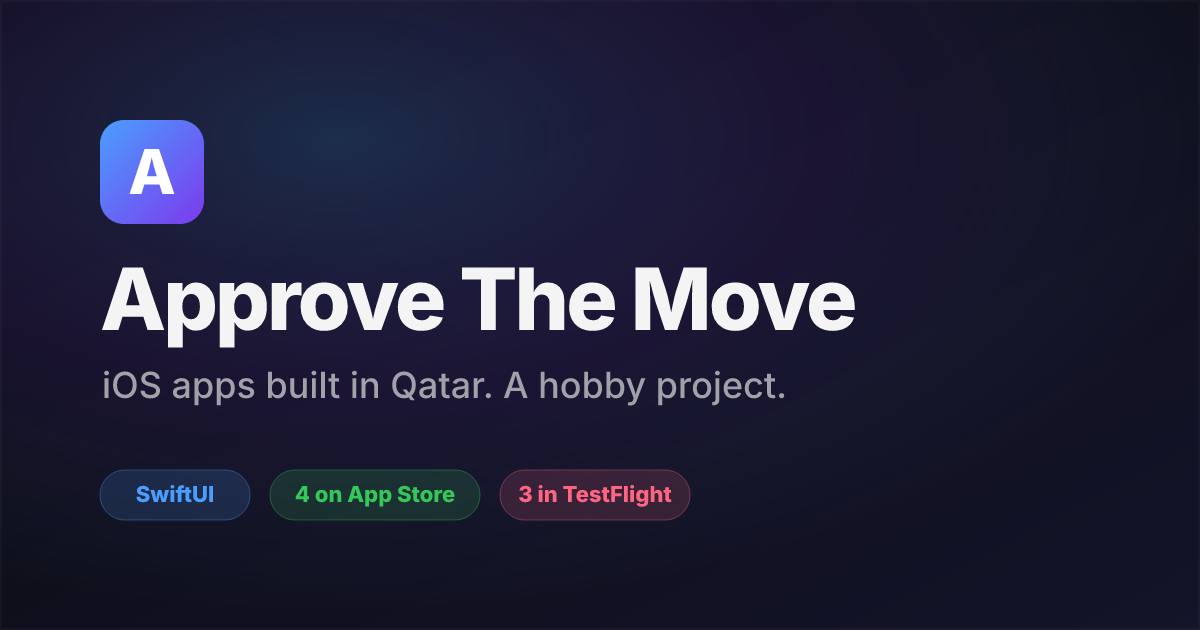
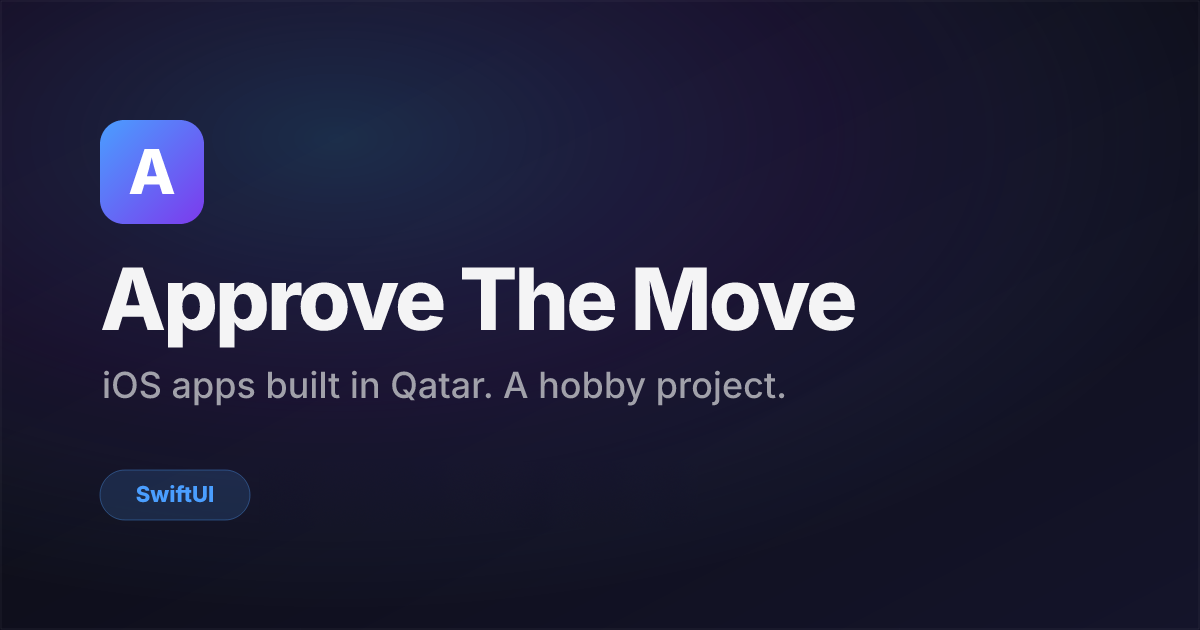
Site: remove app counts from the share image
The share card said "4 on App Store" and "3 in TestFlight" while the home
page says 6 and 1. Counts go stale at every release, so the card now
carries only the name, the tagline and the SwiftUI chip. The rest of the
image is unchanged, pixel for pixel.

Delete docs/og-image.svg: nothing references it, and it had drifted from
the PNG ("3 Live Apps", "1 in Beta").

Add ?v=20261031 to all 36 og:image and twitter:image tags across 18 pages
so link previews refetch the image.

Changed region(s): [[0.2158, 0.7238, 0.5858, 0.8444]]

diff --git a/docs/units/index.html b/docs/units/index.html
@@ -29,7 +29,7 @@
 <meta property="og:url" content="https://approvethemove.com/units/">
 <meta property="og:title" content="Unit Converter — 14+ Categories">
 <meta property="og:description" content="Convert length, weight, temperature, volume, speed, and 10+ more categories. Instant results. Free, no ads.">
-<meta property="og:image" content="https://approvethemove.com/og-image.png">
+<meta property="og:image" content="https://approvethemove.com/og-image.png?v=20261031">
 <meta property="og:image:type" content="image/png">
 <meta property="og:image:width" content="1200">
 <meta property="og:image:height" content="630">
@@ -37,7 +37,7 @@
 <meta name="twitter:card" content="summary_large_image">
 <meta name="twitter:title" content="Unit Converter — 14+ Categories">
 <meta name="twitter:description" content="Convert length, weight, temperature, volume, speed, and 10+ more categories. Instant results. Free, no ads.">
-<meta name="twitter:image" content="https://approvethemove.com/og-image.png">
+<meta name="twitter:image" content="https://approvethemove.com/og-image.png?v=20261031">
 <script type="application/ld+json">{"@context":"https://schema.org","@type":"SoftwareApplication","name":"Unit Converter","operatingSystem":"iOS","applicationCategory":"UtilitiesApplication","url":"https://approvethemove.com/units/","description":"Convert length, weight, temperature, volume, speed, and 10+ more categories. Instant results. Free, no ads.","author":{"@type":"Organization","name":"Approve The Move"},"offers":{"@type":"Offer","price":"0","priceCurrency":"USD"},"sameAs":"https://apps.apple.com/app/id6760981967","downloadUrl":"https://apps.apple.com/app/id6760981967"}</script>
 <script>(function(){try{var t=localStorage.getItem("atm-theme");if(t!=="dark"&&t!=="light"){t=window.matchMedia&&window.matchMedia("(prefers-color-scheme: light)").matches?"light":"dark";}document.documentElement.setAttribute("data-theme",t);}catch(e){}})();</script>
 </head>

diff --git a/docs/converter/index.html b/docs/converter/index.html
@@ -29,7 +29,7 @@
 <meta property="og:url" content="https://approvethemove.com/converter/">
 <meta property="og:title" content="Currency Converter — Live Exchange Rates">
 <meta property="og:description" content="Convert between 60 world currencies with live exchange rates. Works offline. Free, no ads.">
-<meta property="og:image" content="https://approvethemove.com/og-image.png">
+<meta property="og:image" content="https://approvethemove.com/og-image.png?v=20261031">
 <meta property="og:image:type" content="image/png">
 <meta property="og:image:width" content="1200">
 <meta property="og:image:height" content="630">
@@ -37,7 +37,7 @@
 <meta name="twitter:card" content="summary_large_image">
 <meta name="twitter:title" content="Currency Converter — Live Exchange Rates">
 <meta name="twitter:description" content="Convert between 60 world currencies with live exchange rates. Works offline. Free, no ads.">
-<meta name="twitter:image" content="https://approvethemove.com/og-image.png">
+<meta name="twitter:image" content="https://approvethemove.com/og-image.png?v=20261031">
 <script type="application/ld+json">{"@context":"https://schema.org","@type":"SoftwareApplication","name":"Currency Converter","operatingSystem":"iOS","applicationCategory":"FinanceApplication","url":"https://approvethemove.com/converter/","description":"Convert between 60 world currencies with live exchange rates. Works offline. Free, no ads.","author":{"@type":"Organization","name":"Approve The Move"},"offers":{"@type":"Offer","price":"0","priceCurrency":"USD"},"sameAs":"https://apps.apple.com/app/id6761050400","downloadUrl":"https://apps.apple.com/app/id6761050400"}</script>
 <script>(function(){try{var t=localStorage.getItem("atm-theme");if(t!=="dark"&&t!=="light"){t=window.matchMedia&&window.matchMedia("(prefers-color-scheme: light)").matches?"light":"dark";}document.documentElement.setAttribute("data-theme",t);}catch(e){}})();</script>
 </head>

diff --git a/docs/QatariCards/index.html b/docs/QatariCards/index.html
@@ -29,7 +29,7 @@
 <meta property="og:url" content="https://approvethemove.com/QatariCards/">
 <meta property="og:title" content="Qatari Cards — Card Game">
 <meta property="og:description" content="The classic Qatari trick-taking card game. Play solo against AI or locally with friends. Free, no ads.">
-<meta property="og:image" content="https://approvethemove.com/og-image.png">
+<meta property="og:image" content="https://approvethemove.com/og-image.png?v=20261031">
 <meta property="og:image:type" content="image/png">
 <meta property="og:image:width" content="1200">
 <meta property="og:image:height" content="630">
@@ -37,7 +37,7 @@
 <meta name="twitter:card" content="summary_large_image">
 <meta name="twitter:title" content="Qatari Cards — Card Game">
 <meta name="twitter:description" content="The classic Qatari trick-taking card game. Play solo against AI or locally with friends. Free, no ads.">
-<meta name="twitter:image" content="https://approvethemove.com/og-image.png">
+<meta name="twitter:image" content="https://approvethemove.com/og-image.png?v=20261031">
 <script type="application/ld+json">{"@context":"https://schema.org","@type":"SoftwareApplication","name":"Qatari Cards","operatingSystem":"iOS","applicationCategory":"GameApplication","url":"https://approvethemove.com/QatariCards/","description":"The classic Qatari trick-taking card game. Play solo against AI or locally with friends. Free, no ads.","author":{"@type":"Organization","name":"Approve The Move"},"offers":{"@type":"Offer","price":"0","priceCurrency":"USD"},"sameAs":"https://apps.apple.com/app/id6760917981","downloadUrl":"https://apps.apple.com/app/id6760917981"}</script>
 <script>(function(){try{var t=localStorage.getItem("atm-theme");if(t!=="dark"&&t!=="light"){t=window.matchMedia&&window.matchMedia("(prefers-color-scheme: light)").matches?"light":"dark";}document.documentElement.setAttribute("data-theme",t);}catch(e){}})();</script>
 </head>

diff --git a/docs/split/index.html b/docs/split/index.html
@@ -29,7 +29,7 @@
 <meta property="og:url" content="https://approvethemove.com/split/">
 <meta property="og:title" content="ATM Split — Expense Splitting">
 <meta property="og:description" content="Split bills with friends using multiple split modes and multi-currency support. Free, no ads.">
-<meta property="og:image" content="https://approvethemove.com/og-image.png">
+<meta property="og:image" content="https://approvethemove.com/og-image.png?v=20261031">
 <meta property="og:image:type" content="image/png">
 <meta property="og:image:width" content="1200">
 <meta property="og:image:height" content="630">
@@ -37,7 +37,7 @@
 <meta name="twitter:card" content="summary_large_image">
 <meta name="twitter:title" content="ATM Split — Expense Splitting">
 <meta name="twitter:description" content="Split bills with friends using multiple split modes and multi-currency support. Free, no ads.">
-<meta name="twitter:image" content="https://approvethemove.com/og-image.png">
+<meta name="twitter:image" content="https://approvethemove.com/og-image.png?v=20261031">
 <script type="application/ld+json">{"@context":"https://schema.org","@type":"SoftwareApplication","name":"ATM Split","operatingSystem":"iOS","applicationCategory":"FinanceApplication","url":"https://approvethemove.com/split/","description":"Split bills with friends using multiple split modes and multi-currency support. Free, no ads.","author":{"@type":"Organization","name":"Approve The Move"},"offers":{"@type":"Offer","price":"0","priceCurrency":"USD"},"sameAs":"https://apps.apple.com/app/id6762064476","downloadUrl":"https://apps.apple.com/app/id6762064476"}</script>
 <script>(function(){try{var t=localStorage.getItem("atm-theme");if(t!=="dark"&&t!=="light"){t=window.matchMedia&&window.matchMedia("(prefers-color-scheme: light)").matches?"light":"dark";}document.documentElement.setAttribute("data-theme",t);}catch(e){}})();</script>
 </head>

diff --git a/docs/GlucoRelay/index.html b/docs/GlucoRelay/index.html
@@ -29,7 +29,7 @@
 <meta property="og:url" content="https://approvethemove.com/GlucoRelay/">
 <meta property="og:title" content="GlucoRelay — Universal CGM Dashboard">
 <meta property="og:description" content="One iPhone dashboard for every CGM. Dexcom, Libre, Medtronic, Nightscout, Medtrum &amp; Apple Health.">
-<meta property="og:image" content="https://approvethemove.com/og-image.png">
+<meta property="og:image" content="https://approvethemove.com/og-image.png?v=20261031">
 <meta property="og:image:type" content="image/png">
 <meta property="og:image:width" content="1200">
 <meta property="og:image:height" content="630">
@@ -37,7 +37,7 @@
 <meta name="twitter:card" content="summary_large_image">
 <meta name="twitter:title" content="GlucoRelay — Universal CGM Dashboard">
 <meta name="twitter:description" content="One iPhone dashboard for every CGM. Dexcom, Libre, Medtronic, Nightscout, Medtrum &amp; Apple Health.">
-<meta name="twitter:image" content="https://approvethemove.com/og-image.png">
+<meta name="twitter:image" content="https://approvethemove.com/og-image.png?v=20261031">
 <script type="application/ld+json">{"@context":"https://schema.org","@type":"SoftwareApplication","name":"GlucoRelay","operatingSystem":"iOS","applicationCategory":"HealthApplication","url":"https://approvethemove.com/GlucoRelay/","description":"One iPhone dashboard for every CGM. Dexcom, FreeStyle Libre, Medtronic CareLink, Nightscout, Medtrum, and Apple Health \u2014 all in one app.","author":{"@type":"Organization","name":"Approve The Move"},"offers":{"@type":"Offer","price":"0","priceCurrency":"USD"}}</script>
 <script>(function(){try{var t=localStorage.getItem("atm-theme");if(t!=="dark"&&t!=="light"){t=window.matchMedia&&window.matchMedia("(prefers-color-scheme: light)").matches?"light":"dark";}document.documentElement.setAttribute("data-theme",t);}catch(e){}})();</script>
 </head>

diff --git a/docs/chat/index.html b/docs/chat/index.html
@@ -29,7 +29,7 @@
 <meta property="og:url" content="https://approvethemove.com/chat/">
 <meta property="og:title" content="ATMChat — Offline Mesh Messaging">
 <meta property="og:description" content="Chat without internet. Messages travel over Wi-Fi and Bluetooth mesh. No servers, no accounts, fully decentralized.">
-<meta property="og:image" content="https://approvethemove.com/og-image.png">
+<meta property="og:image" content="https://approvethemove.com/og-image.png?v=20261031">
 <meta property="og:image:type" content="image/png">
 <meta property="og:image:width" content="1200">
 <meta property="og:image:height" content="630">
@@ -37,7 +37,7 @@
 <meta name="twitter:card" content="summary_large_image">
 <meta name="twitter:title" content="ATMChat — Offline Mesh Messaging">
 <meta name="twitter:description" content="Chat without internet. Messages travel over Wi-Fi and Bluetooth mesh. No servers, no accounts, fully decentralized.">
-<meta name="twitter:image" content="https://approvethemove.com/og-image.png">
+<meta name="twitter:image" content="https://approvethemove.com/og-image.png?v=20261031">
 <script type="application/ld+json">{"@context":"https://schema.org","@type":"SoftwareApplication","name":"ATMChat","operatingSystem":"iOS","applicationCategory":"SocialNetworkingApplication","url":"https://approvethemove.com/chat/","description":"Chat without internet. Messages travel over Wi-Fi and Bluetooth mesh. No servers, no accounts, fully decentralized.","author":{"@type":"Organization","name":"Approve The Move"},"offers":{"@type":"Offer","price":"0","priceCurrency":"USD"}}</script>
 <script>(function(){try{var t=localStorage.getItem("atm-theme");if(t!=="dark"&&t!=="light"){t=window.matchMedia&&window.matchMedia("(prefers-color-scheme: light)").matches?"light":"dark";}document.documentElement.setAttribute("data-theme",t);}catch(e){}})();</script>
 </head>

diff --git a/docs/flow/index.html b/docs/flow/index.html
@@ -29,7 +29,7 @@
 <meta property="og:url" content="https://approvethemove.com/flow/">
 <meta property="og:title" content="ATM Flow — Personal Finance Tracker">
 <meta property="og:description" content="Track your money across multiple accounts with budgets, reports, and CloudKit sync. Free, no ads.">
-<meta property="og:image" content="https://approvethemove.com/og-image.png">
+<meta property="og:image" content="https://approvethemove.com/og-image.png?v=20261031">
 <meta property="og:image:type" content="image/png">
 <meta property="og:image:width" content="1200">
 <meta property="og:image:height" content="630">
@@ -37,7 +37,7 @@
 <meta name="twitter:card" content="summary_large_image">
 <meta name="twitter:title" content="ATM Flow — Personal Finance Tracker">
 <meta name="twitter:description" content="Track your money across multiple accounts with budgets, reports, and CloudKit sync. Free, no ads.">
-<meta name="twitter:image" content="https://approvethemove.com/og-image.png">
+<meta name="twitter:image" content="https://approvethemove.com/og-image.png?v=20261031">
 <script type="application/ld+json">{"@context":"https://schema.org","@type":"SoftwareApplication","name":"ATM Flow","operatingSystem":"iOS","applicationCategory":"FinanceApplication","url":"https://approvethemove.com/flow/","description":"Track your money across multiple accounts with budgets, reports, and CloudKit sync. Free, no ads.","author":{"@type":"Organization","name":"Approve The Move"},"offers":{"@type":"Offer","price":"0","priceCurrency":"USD"}}</script>
 <script>(function(){try{var t=localStorage.getItem("atm-theme");if(t!=="dark"&&t!=="light"){t=window.matchMedia&&window.matchMedia("(prefers-color-scheme: light)").matches?"light":"dark";}document.documentElement.setAttribute("data-theme",t);}catch(e){}})();</script>
 </head>

diff --git a/docs/index.html b/docs/index.html
@@ -29,7 +29,7 @@
 <meta property="og:url" content="https://approvethemove.com/">
 <meta property="og:title" content="Approve The Move — iOS Apps">
 <meta property="og:description" content="iOS apps built with care. A hobby project by an iOS developer from Qatar.">
-<meta property="og:image" content="https://approvethemove.com/og-image.png">
+<meta property="og:image" content="https://approvethemove.com/og-image.png?v=20261031">
 <meta property="og:image:type" content="image/png">
 <meta property="og:image:width" content="1200">
 <meta property="og:image:height" content="630">
@@ -37,7 +37,7 @@
 <meta name="twitter:card" content="summary_large_image">
 <meta name="twitter:title" content="Approve The Move — iOS Apps">
 <meta name="twitter:description" content="iOS apps built with care. A hobby project by an iOS developer from Qatar.">
-<meta name="twitter:image" content="https://approvethemove.com/og-image.png">
+<meta name="twitter:image" content="https://approvethemove.com/og-image.png?v=20261031">
 <script type="application/ld+json">{"@context":"https://schema.org","@graph":[{"@type":"WebSite","name":"Approve The Move","url":"https://approvethemove.com/","inLanguage":"en","description":"iOS apps built with care. A hobby project by an iOS developer from Qatar."},{"@type":"Organization","name":"Approve The Move","url":"https://approvethemove.com/","sameAs":["https://www.instagram.com/yousif.ameen","https://www.linkedin.com/in/yousifameen/"]}]}</script>
 <script>(function(){try{var t=localStorage.getItem("atm-theme");if(t!=="dark"&&t!=="light"){t=window.matchMedia&&window.matchMedia("(prefers-color-scheme: light)").matches?"light":"dark";}document.documentElement.setAttribute("data-theme",t);}catch(e){}})();</script>
 </head>

diff --git a/docs/converter/privacy.html b/docs/converter/privacy.html
@@ -28,7 +28,7 @@
 <meta property="og:url" content="https://approvethemove.com/converter/privacy.html">
 <meta property="og:title" content="Currency Converter — Privacy Policy &amp; Terms of Use">
 <meta property="og:description" content="Privacy policy and terms of use for Currency Converter by Approve The Move.">
-<meta property="og:image" content="https://approvethemove.com/og-image.png">
+<meta property="og:image" content="https://approvethemove.com/og-image.png?v=20261031">
 <meta property="og:image:type" content="image/png">
 <meta property="og:image:width" content="1200">
 <meta property="og:image:height" content="630">
@@ -36,7 +36,7 @@
 <meta name="twitter:card" content="summary_large_image">
 <meta name="twitter:title" content="Currency Converter — Privacy Policy &amp; Terms of Use">
 <meta name="twitter:description" content="Privacy policy and terms of use for Currency Converter by Approve The Move.">
-<meta name="twitter:image" content="https://approvethemove.com/og-image.png">
+<meta name="twitter:image" content="https://approvethemove.com/og-image.png?v=20261031">
 <script type="application/ld+json">{"@context":"https://schema.org","@type":"WebPage","name":"Privacy Policy & Terms of Use \u2014 Currency Converter | Approve The Move","url":"https://approvethemove.com/converter/privacy.html","isPartOf":{"@type":"WebSite","name":"Approve The Move","url":"https://approvethemove.com/"}}</script>
 <script>(function(){try{var t=localStorage.getItem("atm-theme");if(t!=="dark"&&t!=="light"){t=window.matchMedia&&window.matchMedia("(prefers-color-scheme: light)").matches?"light":"dark";}document.documentElement.setAttribute("data-theme",t);}catch(e){}})();</script>
 </head>

diff --git a/docs/GlucoRelay/privacy.html b/docs/GlucoRelay/privacy.html
@@ -28,7 +28,7 @@
 <meta property="og:url" content="https://approvethemove.com/GlucoRelay/privacy.html">
 <meta property="og:title" content="GlucoRelay — Privacy Policy &amp; Terms of Use">
 <meta property="og:description" content="Privacy Policy &amp; Terms of Use for GlucoRelay, including the medical disclaimer.">
-<meta property="og:image" content="https://approvethemove.com/og-image.png">
+<meta property="og:image" content="https://approvethemove.com/og-image.png?v=20261031">
 <meta property="og:image:type" content="image/png">
 <meta property="og:image:width" content="1200">
 <meta property="og:image:height" content="630">
@@ -36,7 +36,7 @@
 <meta name="twitter:card" content="summary_large_image">
 <meta name="twitter:title" content="GlucoRelay — Privacy Policy &amp; Terms of Use">
 <meta name="twitter:description" content="Privacy Policy &amp; Terms of Use for GlucoRelay, including the medical disclaimer.">
-<meta name="twitter:image" content="https://approvethemove.com/og-image.png">
+<meta name="twitter:image" content="https://approvethemove.com/og-image.png?v=20261031">
 <script type="application/ld+json">{"@context":"https://schema.org","@type":"WebPage","name":"Privacy Policy \u2014 GlucoRelay | Approve The Move","url":"https://approvethemove.com/GlucoRelay/privacy.html","isPartOf":{"@type":"WebSite","name":"Approve The Move","url":"https://approvethemove.com/"}}</script>
 <script>(function(){try{var t=localStorage.getItem("atm-theme");if(t!=="dark"&&t!=="light"){t=window.matchMedia&&window.matchMedia("(prefers-color-scheme: light)").matches?"light":"dark";}document.documentElement.setAttribute("data-theme",t);}catch(e){}})();</script>
 </head>

diff --git a/docs/QatariCards/privacy.html b/docs/QatariCards/privacy.html
@@ -28,7 +28,7 @@
 <meta property="og:url" content="https://approvethemove.com/QatariCards/privacy.html">
 <meta property="og:title" content="Qatari Cards — Privacy Policy &amp; Terms of Use">
 <meta property="og:description" content="Privacy policy and terms of use for Qatari Cards by Approve The Move.">
-<meta property="og:image" content="https://approvethemove.com/og-image.png">
+<meta property="og:image" content="https://approvethemove.com/og-image.png?v=20261031">
 <meta property="og:image:type" content="image/png">
 <meta property="og:image:width" content="1200">
 <meta property="og:image:height" content="630">
@@ -36,7 +36,7 @@
 <meta name="twitter:card" content="summary_large_image">
 <meta name="twitter:title" content="Qatari Cards — Privacy Policy &amp; Terms of Use">
 <meta name="twitter:description" content="Privacy policy and terms of use for Qatari Cards by Approve The Move.">
-<meta name="twitter:image" content="https://approvethemove.com/og-image.png">
+<meta name="twitter:image" content="https://approvethemove.com/og-image.png?v=20261031">
 <script type="application/ld+json">{"@context":"https://schema.org","@type":"WebPage","name":"Privacy Policy & Terms of Use \u2014 Qatari Cards | Approve The Move","url":"https://approvethemove.com/QatariCards/privacy.html","isPartOf":{"@type":"WebSite","name":"Approve The Move","url":"https://approvethemove.com/"}}</script>
 <script>(function(){try{var t=localStorage.getItem("atm-theme");if(t!=="dark"&&t!=="light"){t=window.matchMedia&&window.matchMedia("(prefers-color-scheme: light)").matches?"light":"dark";}document.documentElement.setAttribute("data-theme",t);}catch(e){}})();</script>
 </head>

diff --git a/docs/units/privacy.html b/docs/units/privacy.html
@@ -28,7 +28,7 @@
 <meta property="og:url" content="https://approvethemove.com/units/privacy.html">
 <meta property="og:title" content="Unit Converter — Privacy Policy &amp; Terms of Use">
 <meta property="og:description" content="Privacy policy and terms of use for Unit Converter by Approve The Move.">
-<meta property="og:image" content="https://approvethemove.com/og-image.png">
+<meta property="og:image" content="https://approvethemove.com/og-image.png?v=20261031">
 <meta property="og:image:type" content="image/png">
 <meta property="og:image:width" content="1200">
 <meta property="og:image:height" content="630">
@@ -36,7 +36,7 @@
 <meta name="twitter:card" content="summary_large_image">
 <meta name="twitter:title" content="Unit Converter — Privacy Policy &amp; Terms of Use">
 <meta name="twitter:description" content="Privacy policy and terms of use for Unit Converter by Approve The Move.">
-<meta name="twitter:image" content="https://approvethemove.com/og-image.png">
+<meta name="twitter:image" content="https://approvethemove.com/og-image.png?v=20261031">
 <script type="application/ld+json">{"@context":"https://schema.org","@type":"WebPage","name":"Privacy Policy & Terms of Use \u2014 Unit Converter | Approve The Move","url":"https://approvethemove.com/units/privacy.html","isPartOf":{"@type":"WebSite","name":"Approve The Move","url":"https://approvethemove.com/"}}</script>
 <script>(function(){try{var t=localStorage.getItem("atm-theme");if(t!=="dark"&&t!=="light"){t=window.matchMedia&&window.matchMedia("(prefers-color-scheme: light)").matches?"light":"dark";}document.documentElement.setAttribute("data-theme",t);}catch(e){}})();</script>
 </head>
